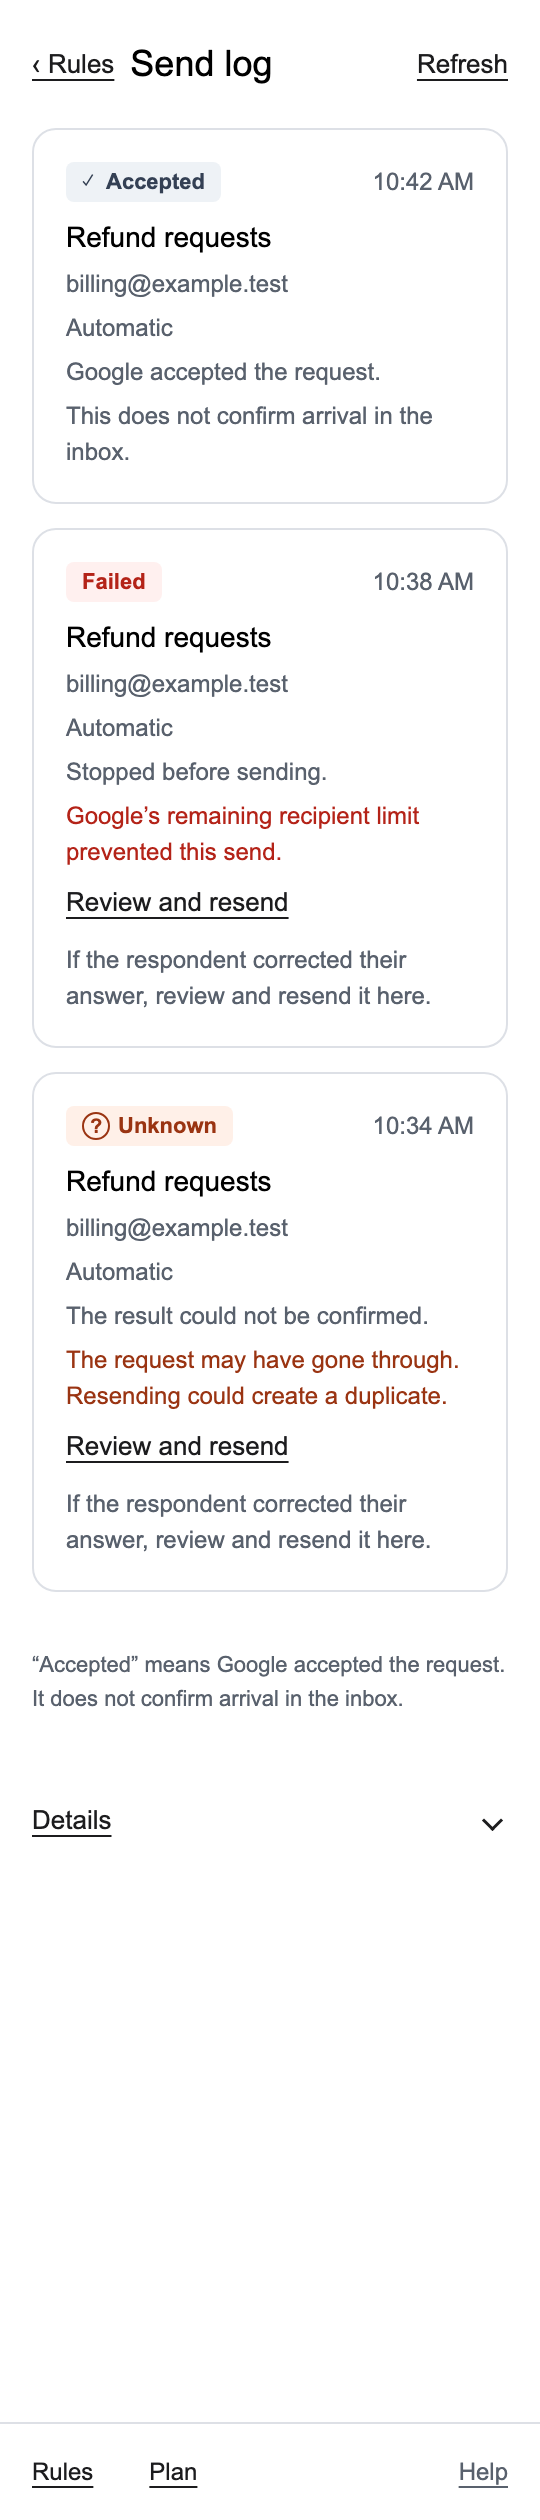
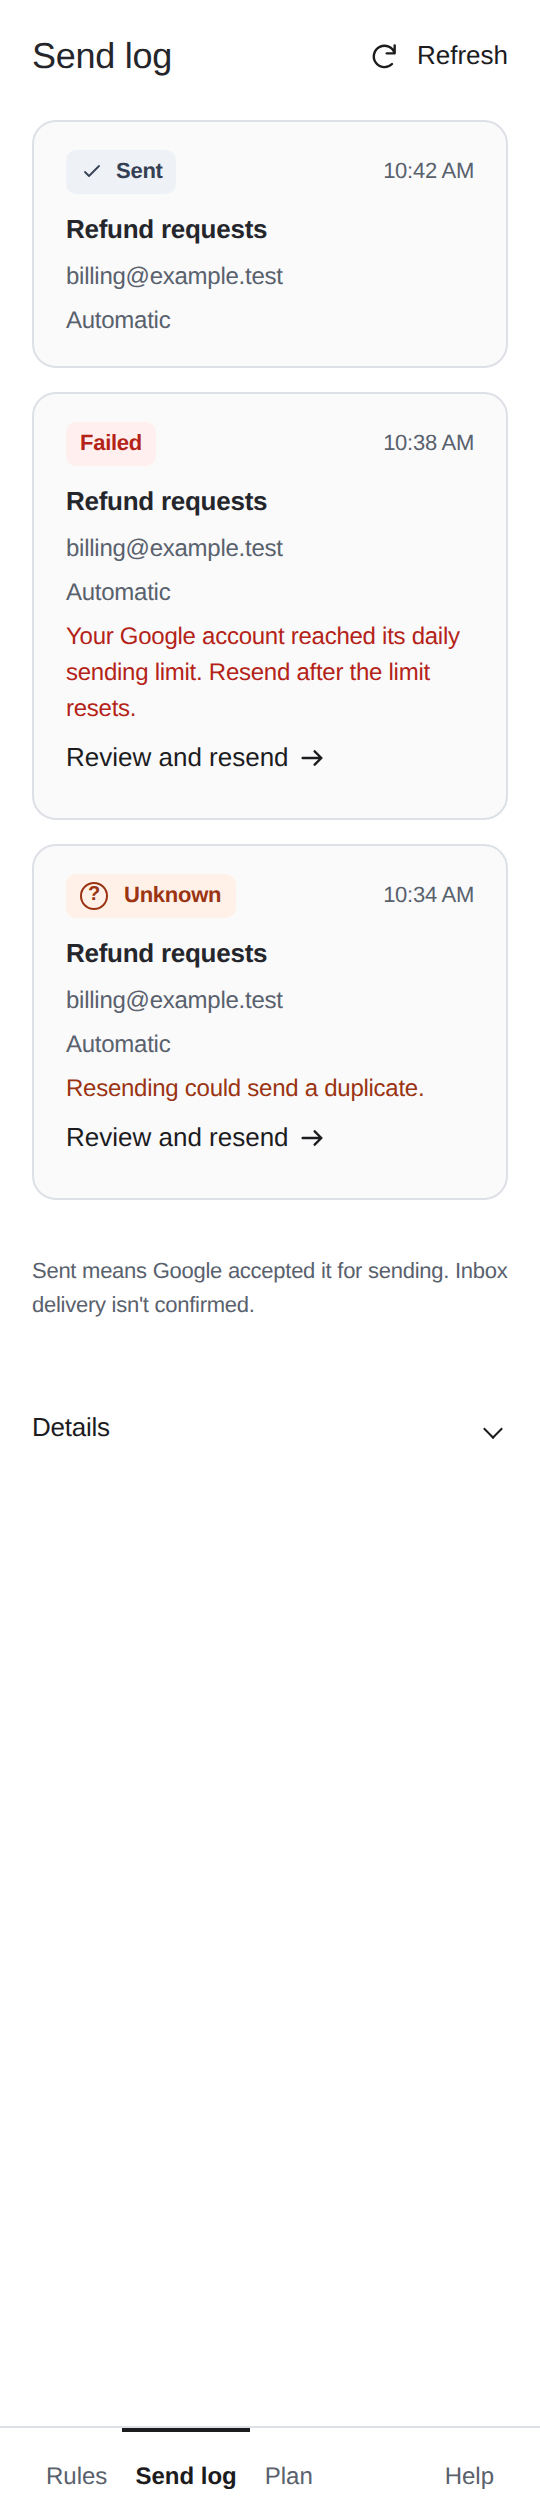
docs: replace six help screenshots with pinned v4 CI renders [skip ci]

diff --git a/docs/help-v4-20261112.md b/docs/help-v4-20261112.md
@@ -1,0 +1,29 @@
+# Help pages aligned to Formbell v4
+
+Site base: `0edf8eeee7a3d1ba3b482f9c78c565dfb0ad4d1e`. Product source: `012b78c3342a493aa4aa1712cd5f98b17cc0ae97`. This work changes the two help pages and their six product images. Landing, privacy, terms, support and site styling retain the HQ-approved base.
+
+## Copy changes
+
+- S-A3: Send log uses Sent, including image alt text. Google acceptance and unconfirmed inbox delivery remain separate.
+- S-A4: The resend button is Resend with current rule.
+- S-A5: The response picker is Select a response; the editor's preview disclosure is Preview details. Automatic no-match selection is described by Latest response (no recent match), without claiming a separate error notice.
+- S-A6: Adding a route uses New rule; the empty first-rule path remains Create a rule. Both guides add this draft sentence for HQ review: When Google Forms email collection is off or can't be checked, you must choose an email source before saving a rule that emails the respondent.
+
+## Images and provenance
+
[1 lines of base64/hex data omitted]
+
+| Retained filename | Pixels | Scene |
+|---|---|---|
+| 891daf2-rule-editor.png | 1520×1240 | Refund rule, fixed billing@example.test, preview |
+| 891daf2-send-log.png | 540×2520 | The same Refund rule with Sent/Failed/Unknown examples |
+| confirmation-rule@2x.png | 1520×1240 | Name is not empty, collected respondent email, Sam preview |
+| confirmation-template@2x.png | 1520×1240 | The same editor scrolled to Name/Session chips |
+| test-preview@2x.png | 540×2200 | Default latest matching Sam response, self-test preview only |
+| test-response-selected@2x.png | 540×2200 | Explicit Alex response selection in the same test preview |
+
+The two legacy 891daf2 filenames remain solely for URL compatibility; all six images now use the pinned v4 HTML/CSS. Official add-ons1.css and referenced Google UI images are served byte-for-byte. Only synthetic display data and the existing render-context/RPC stub slots are used. No CSS overrides, pixel edits, user browser/profile access, real Google requests, license calls, checkout or mail. Product source is not copied to this public site repository. The original sample scenes, filenames and sizes are retained. The v4 sample form explicitly supplies emailCollection.enabled=true; no product behavior is changed.
+
+All six PNG hashes and dimensions match the CI record. Google Forms settings image forms-settings-email-receipts.png is unchanged byte-for-byte from the site base; its current-host validation remains U. The record preserves its hash and that limit. Browser exceptions0, blocked external resources0, remote mutations0. Local download: `/private/tmp/formbell-help-v4-43147251014`. Founder Mac browser/render/tests were not run.
+
+Generation success is not HQ image approval or independent copy review. HQ will inspect the rendered images, and Acrux will compare the copy. Main, site publication, product code, B/E, versions and Console were not changed by this task.
